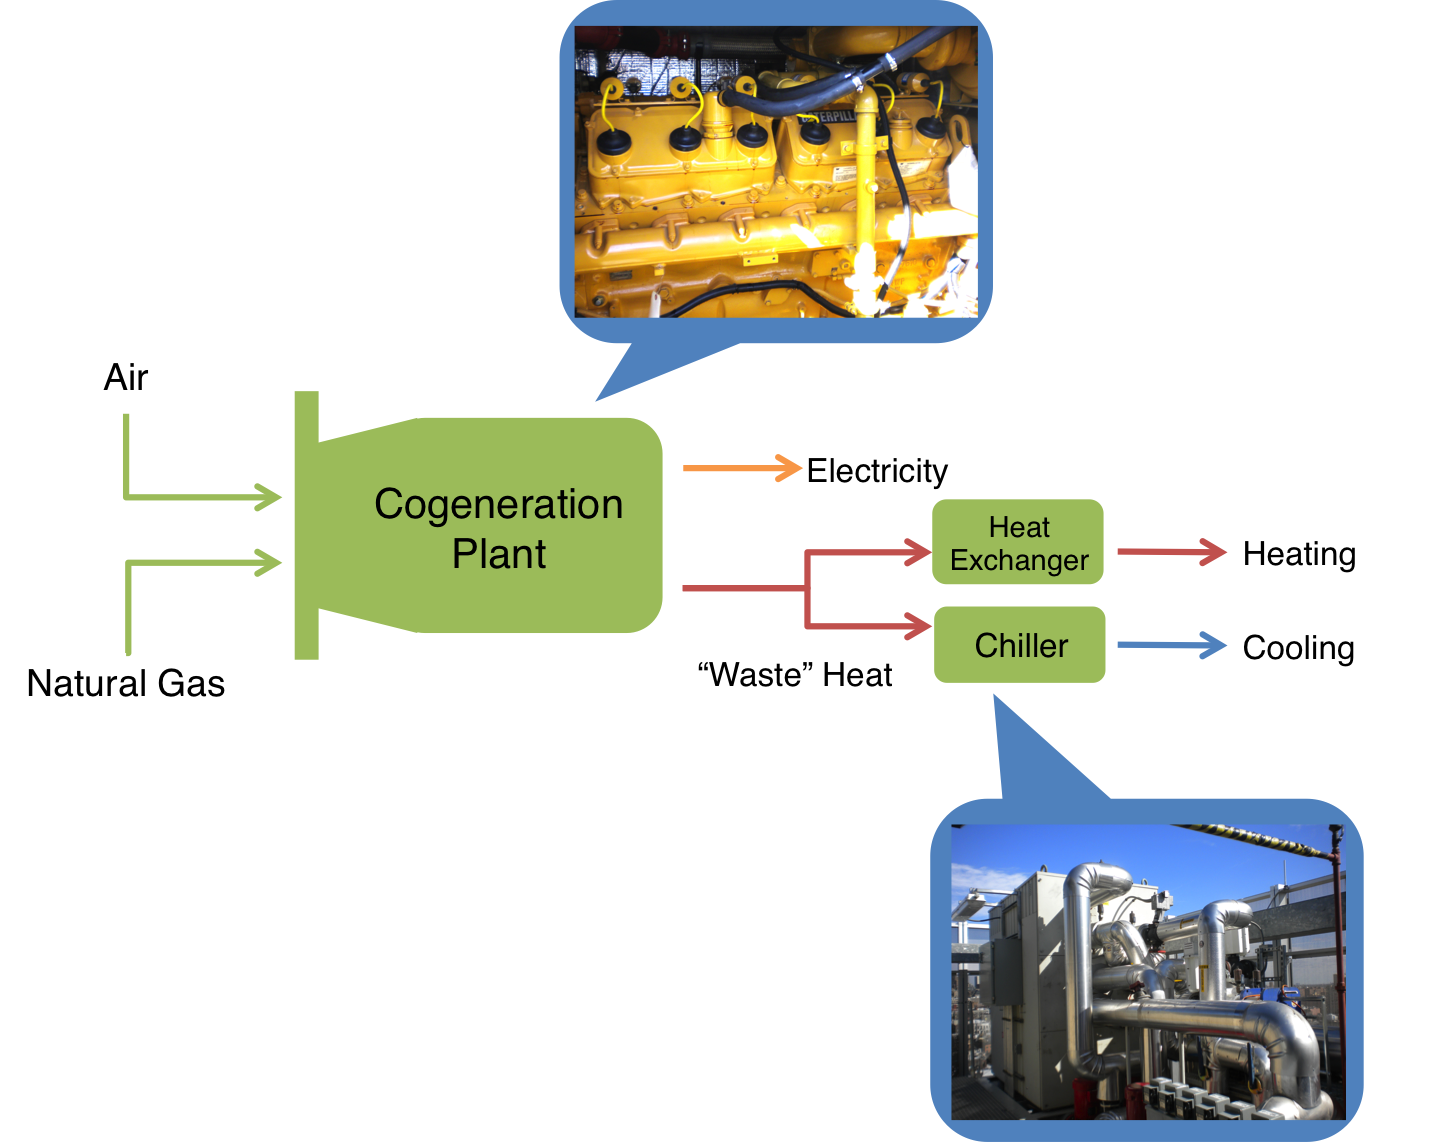
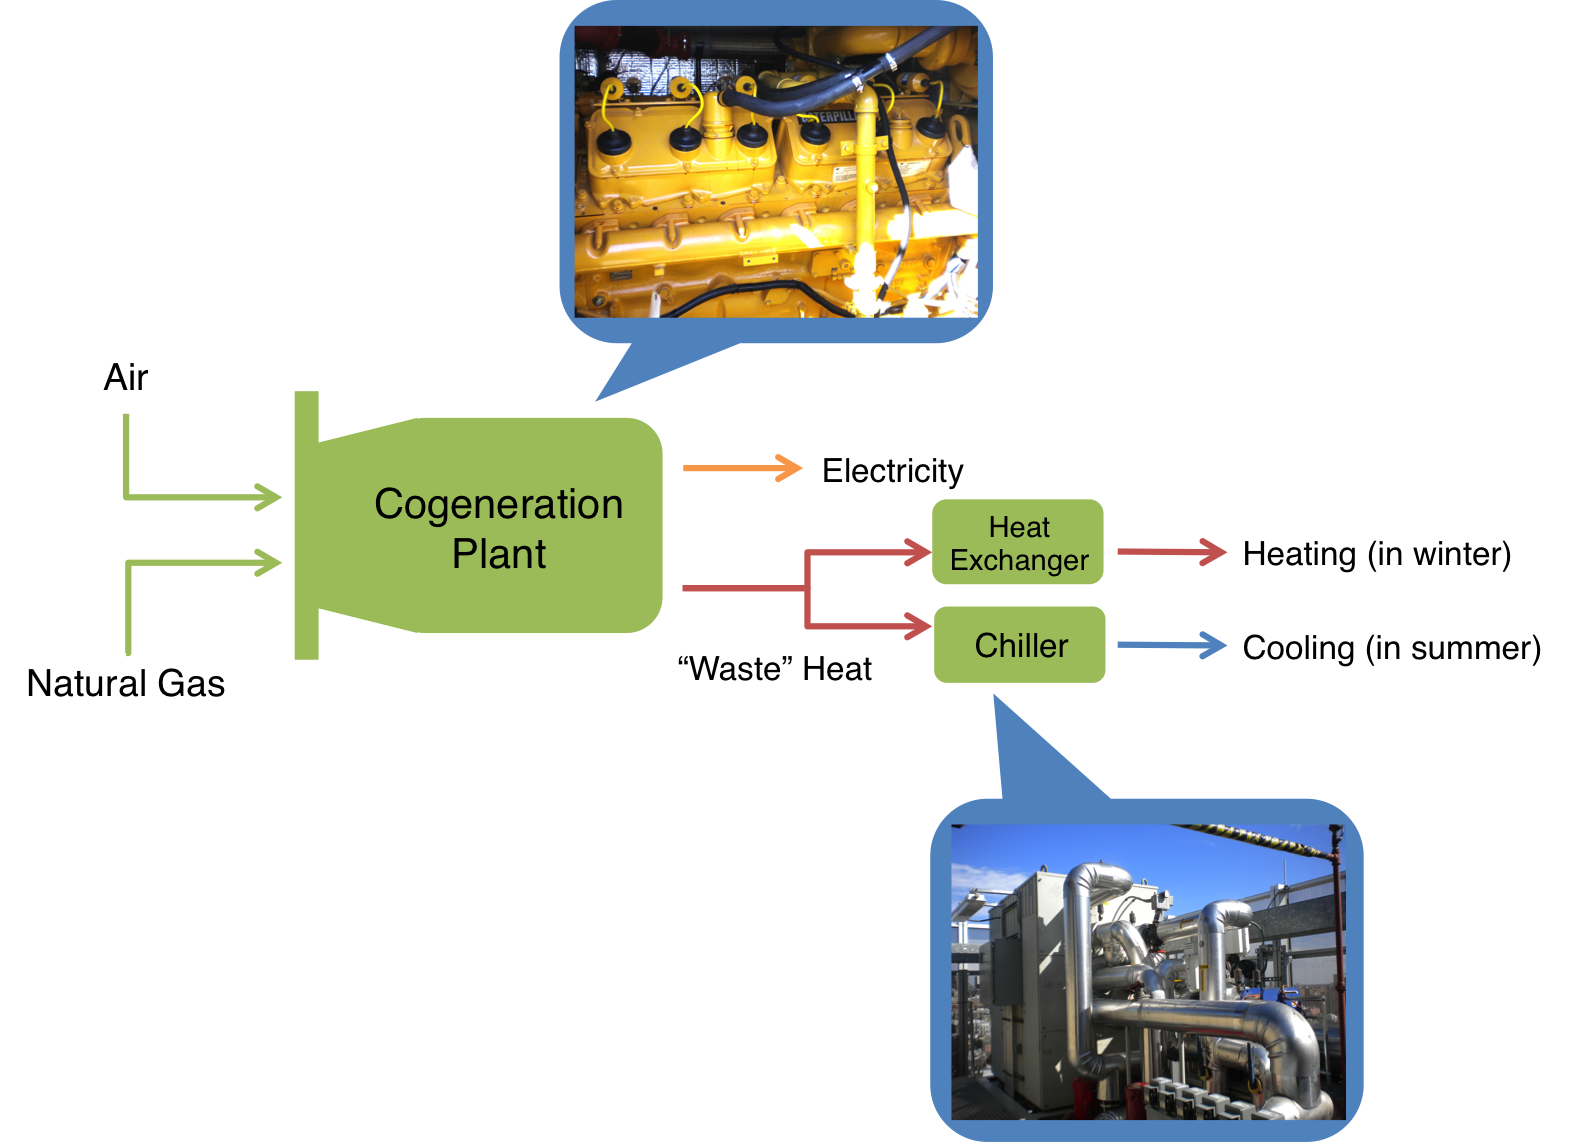
modifying titles and text

Changed region(s): [[0.1531, 0.0, 0.9798, 1.0], [0.0, 0.4904, 0.1531, 0.613], [0.0612, 0.3065, 0.0919, 0.4291]]

diff --git a/RainWaterHarvesting.html b/RainWaterHarvesting.html
@@ -4,7 +4,7 @@
     <head>
 	
 	<title>
-      Green Features
+      Green Features @41CooperSquare
     </title>
 	<link href="homepage_css.css" rel="stylesheet"></link>
 		<META HTTP-EQUIV="refresh" CONTENT="180;URL=http://at41coopersquare.github.io">
@@ -17,7 +17,7 @@
 		<header>
 			<hgroup>
 				<h1> <a href="index.html"><img class="cooperlogo" src="CooperUnionLogo.gif" /></a>
-				Rain Water Harvesting
+				Rainwater Harvesting
 				<img src="title.gif" class="title" /></h1>
 			</hgroup>
 			<nav>
@@ -38,19 +38,19 @@
 	<div id="innerpagetable">
 <table>
 		<td width="50%">
-			<h5>What is rain water harvesting?</h5>
+			<h5>What is rainwater harvesting?</h5>
 			<p>
-			The rain water harvesting system collects and uses storm water, saving 41CS an average of 100,000 gallons of water per year.
+			The rainwater harvesting system collects and uses storm water, saving 41CS an average of 100,000 gallons of water per year.
 			<br></p>
 			<h5>How does our system benefit NYC?</h5>
 			<p>
-			During heavy rains, the waste water system becomes overwhelmed and sewage water must be dumped directly into NYC rivers. By harvesting rain water, 41CS helps to reduce the amount of water entering the sewer system during storms.
+			During heavy rains, the waste water system becomes overwhelmed and sewage water must be dumped directly into NYC rivers. By harvesting rainwater, 41CS helps to reduce the amount of water entering the sewer system during storms.
 			<br></p>
 			<h5>How does it work?</h5>
 			<p>
 			Drains are located on the 7th and 8th floor roofs which direct rainwater to the 2500 gallon tank located on the 9th floor. While some of this water is used to irrigate the green roof, most of the water is filtered and stored in the 1500 gallon tank on the 2nd floor of 41CS. By feeding water to the toilets in bathrooms below the 2nd floor, 30% of water fixtures in the building are serviced by the water collected in the tank.
 			<br><br>
-			The rain water harvesting system also collects condensate from steam given off by the Air Handling Units (AHUs). AHUs control the temperature and humidity of the air supply. Instead of wasting the water created when moisture is removed from the air, the rain water harvesting system collects that water to increase the supply of water to the green roof and to lower level facilities.
+			The rainwater harvesting system also collects condensate from steam given off by the Air Handling Units (AHUs). AHUs control the temperature and humidity of the air supply. Instead of wasting the water created when moisture is removed from the air, the rain water harvesting system collects that water to increase the supply of water to the green roof and to lower level facilities.
 			</p>
 		</td>
 		<td>

diff --git a/GreenRoof.html b/GreenRoof.html
@@ -4,7 +4,7 @@
     <head>
 	
 	<title>
-      Green Features
+      Green Features @41CooperSquare
     </title>
 	<link href="homepage_css.css" rel="stylesheet"></link>
 		<META HTTP-EQUIV="refresh" CONTENT="180;URL=http://at41coopersquare.github.io">
@@ -42,8 +42,11 @@
 		<td width="50%">
 			<h5>Why do we have a green roof?</h5>
 			<p>Average temperatures of cities are naturally 4-5 degrees hotter than suburban and rural areas because pavement absorbs more heat than soil. This is known as the heat island effect. Adding gardens to the roofs of buildings decreases the heat island effect and decreases the temperature of the city. 41CS hosts a green roof above the 9th floor. 
-<br><br>
-Green roofs also reduce storm water runoff. Since soil absorbs rainwater during storms, less water enters the sewer system which decreases the flooding effect on the sidewalks and streets.<br></p>
+			<br></p>
+
+			<h5>How does the green roof help reduce pollution in NYC beaches?</h5>
+			<p>Green roofs reduce storm water runoff. That is, less water enters the sewer system because the soil in the green roof absorbs rainwater during storms. If there is an excess of water entering the sewer system, sewage must be dumped directly into rivers, causing pollution of NYC beachwater that may lead to swimming advisories and beach closings.
+			<br></p>
 			<h5>How is the green roof related to research at The Cooper Union?</h5>
 			<p>Currently, the Center for Innovation and Applied Technology (CIAT) led by Professor Dell of the Mechanical Engineering department is researching ways to improve the efficiency of the green roof on the Foundation Building. NYC law states that water used to heat buildings must be cooled to 65.6&deg;C before being dumped into the sewage system. Most building systems cool this old heated water by mixing it with cool drinking water, wasting usable filtered water. The CIAT proposes passing heated water through pipes located below the green roof gardens. This extends the growing period of plants by 20% and naturally cools the water in the pipes without wasting drinking water. It is expected that NYC will save $9.8 million in water and sewage costs using this method.
 			</p>

diff --git a/Cogeneration.html b/Cogeneration.html
@@ -4,7 +4,7 @@
     <head>
 	
 	<title>
-      Green Features
+      Green Features @41CooperSquare
     </title>
 	<link href="homepage_css.css" rel="stylesheet"></link>
 	<META HTTP-EQUIV="refresh" CONTENT="180;URL=http://at41coopersquare.github.io">
@@ -34,16 +34,26 @@
 	<!-- <FORM><INPUT Type="button" VALUE="Back" onClick="history.go(-1);return true;"></FORM> -->
 	<div id="backbutton" class="button" onClick="history.go(-1);return true">Back</div>
 	
+	<a href="CogenMore.html">
+		<div id="morebutton" class="button">Click here for more</div>
+	</a>
+
+
+
 <div id="innerpagetable">
 	<table>
 		<td width="50%">
 			<h5>What is cogeneration?</h5>
 			<p>
-			Typical heat engines produce electricity and dispose of waste heat. Cogeneration is a promising green technology because it uses this waste heat to either heat or cool the building through the raidant panels.
+			Cogeneration is a promising green technology that makes use of "waste" heat in two ways. A cogeneration plant uses waste heat to produce electricity onsite and also to heat or cool the building.
 			<br></p>
-			<h5>How does it work?</h5>
+			<h5>How does cogeneration compare to typical heat engines?</h5>
 			<p>
-			In winter, "waste" heat is passed through a heat exchanger for heating. During the summer, this heat is used to drive an absorption chiller.
+			Typical heat engines can produce electricity but simply reject waste heat to the atmosphere. By using cogeneration as opposed to typical heat engines, efficiency is increased from 40% to 80%.
+			<br></p>
+			<h5>How does cogeneration work?</h5>
+			<p>
+			The cogeneration plant runs on air and natural gas to produce electricity as well as "waste" heat. In winter, this waste heat from the cogeneration plant is passed through a heat exchanger for heating. During the summer, this heat is used to drive an absorption chiller. The heat exchanger and chiller then help to regulate the temperature of the building through the radiant panels. 
 			</p>
 		</td>
 		<td>

diff --git a/AirSideMore.html b/AirSideMore.html
@@ -17,7 +17,7 @@
 		<header>
 			<hgroup>
 				<h1> <a href="index.html"><img class="cooperlogo" src="CooperUnionLogo.gif" /></a>
-				Exterior Double Skin
+				Air Side Economizer
 				<img src="title.gif" class="title" /></h1>
 			</hgroup>
 			<nav>
@@ -34,25 +34,14 @@
 	<!-- <FORM><INPUT Type="button" VALUE="Back" onClick="history.go(-1);return true;"></FORM> -->
 	<div id="backbutton" class="button" onClick="history.go(-1);return true">Back</div>
 	
-<div id="innerpagetable">
-<table>
-		<td width="50%">
-			<h5>What is the exterior double skin?</h5>
-			<p>
-			The exterior double skin is the mesh screen surrounding all of 41CS. Constructed from 50% perforated steel skins, the purpose of the facade is to aid in temperature regulation in order to maximize efficiency of the heating and cooling system of the building.
-			<br></p>
-			<h5>How is it energy efficient?</h5>
-			<p>
-			The double skin reduces solar loads during the summer while reducing heat loss by 26% during the winter.
-			<br><br>
-			During the summer, the skin's high reflectivity factor reflects solar radiation from being absorbed into the skin. However, because the skin is 50% perforated, 50% of the solar radiation is passed thorugh the skin and is allowed to heat the windows and walls to heat the building in the winter.
-			</p>
-		</td>
-		<td>
-			<img src="exteriorskin.jpg" width="500px" />
-		</td>
-	</table>
-</div>
+
+	
+	<div id="innerpagetable">
+
+		<iframe src="http://engfac.cooper.edu/melody/417" style="margin-top:100px; width:90%; height:200%;"></iframe>
+
+	</div>
+
 
 	</body>
 	</html>

diff --git a/CogenMore.html b/CogenMore.html
@@ -17,7 +17,7 @@
 		<header>
 			<hgroup>
 				<h1> <a href="index.html"><img class="cooperlogo" src="CooperUnionLogo.gif" /></a>
-				Exterior Double Skin
+				Cogeneration
 				<img src="title.gif" class="title" /></h1>
 			</hgroup>
 			<nav>
@@ -34,25 +34,14 @@
 	<!-- <FORM><INPUT Type="button" VALUE="Back" onClick="history.go(-1);return true;"></FORM> -->
 	<div id="backbutton" class="button" onClick="history.go(-1);return true">Back</div>
 	
-<div id="innerpagetable">
-<table>
-		<td width="50%">
-			<h5>What is the exterior double skin?</h5>
-			<p>
-			The exterior double skin is the mesh screen surrounding all of 41CS. Constructed from 50% perforated steel skins, the purpose of the facade is to aid in temperature regulation in order to maximize efficiency of the heating and cooling system of the building.
-			<br></p>
-			<h5>How is it energy efficient?</h5>
-			<p>
-			The double skin reduces solar loads during the summer while reducing heat loss by 26% during the winter.
-			<br><br>
-			During the summer, the skin's high reflectivity factor reflects solar radiation from being absorbed into the skin. However, because the skin is 50% perforated, 50% of the solar radiation is passed thorugh the skin and is allowed to heat the windows and walls to heat the building in the winter.
-			</p>
-		</td>
-		<td>
-			<img src="exteriorskin.jpg" width="500px" />
-		</td>
-	</table>
-</div>
+
+	
+	<div id="innerpagetable">
+
+		<iframe src="http://engfac.cooper.edu/melody/451" style="margin-top:100px; width:90%; height:200%;"></iframe>
+
+	</div>
+
 
 	</body>
 	</html>

diff --git a/AirSideEconomizer.html b/AirSideEconomizer.html
@@ -4,7 +4,7 @@
     <head>
 	
 	<title>
-      Green Features
+      Green Features @41CooperSquare
     </title>
 	<link href="homepage_css.css" rel="stylesheet"></link>
 	<META HTTP-EQUIV="refresh" CONTENT="180;URL=http://at41coopersquare.github.io">
@@ -34,6 +34,12 @@
 	<!-- <FORM><INPUT Type="button" VALUE="Back" onClick="history.go(-1);return true;"></FORM> -->
 	<div id="backbutton" class="button" onClick="history.go(-1);return true">Back</div>
 	
+	<a href="AirSideMore.html">
+		<div id="morebutton" class="button">Click here for more</div>
+	</a>
+
+
+
 <div id="innerpagetable">
 <table>
 		<td width="50%">
@@ -53,7 +59,7 @@ All classrooms and offices are provided with 100% outside air (studies show fres
 			</p>
 		</td>
 		<td>
-			<img src="41cs_studio.jpg" width="450px" /><br>
+			<img src="41cs_studio.jpg" width="450px" /><br><br>
 			<img src="41cs_classroom.jpg" width="450px" />
 			</div>
 		</td>

diff --git a/RealTimeData.html b/RealTimeData.html
@@ -3,7 +3,7 @@
     <head>
 	
 	<title>
-      Real Time Data
+      Real Time Data @41CooperSquare
 	</title>
 	
 	<link href="homepage_css.css" rel="stylesheet"></link>
@@ -32,7 +32,7 @@
 	</div>
 	
 
-<iframe src="hhttp://energydash.cooper.edu/" style="margin-top:100px; width:90%; height:200%;"></iframe>
+<iframe src="http://energydash.cooper.edu/" style="margin-top:100px; width:90%; height:105%;"></iframe>
 <br><p>Real-Time Data courtesy of Eric Leong ME'14.
 	
 	</body>

diff --git a/Daylighting.html b/Daylighting.html
@@ -47,7 +47,7 @@
 			</p>
 		</td>
 		<td>
-	<img src="Daylighting.jpg" height="400px"/><img src="Daylighting2.jpg" height="400px"/>
+	<img src="Daylighting.jpg" height="400px"/>&nbsp;&nbsp;&nbsp;&nbsp;&nbsp;<img src="Daylighting2.jpg" height="400px"/>
 		</td>
 	</table>
 </div>

diff --git a/RadiantPanels.html b/RadiantPanels.html
@@ -4,7 +4,7 @@
     <head>
 	
 	<title>
-      Green Features
+      Green Features @41CooperSquare
     </title>
 	<link href="homepage_css.css" rel="stylesheet"></link>
 	<META HTTP-EQUIV="refresh" CONTENT="180;URL=http://at41coopersquare.github.io">

diff --git a/RadiantPanelsMore.html b/RadiantPanelsMore.html
@@ -4,7 +4,7 @@
     <head>
 	
 	<title>
-      Green Features
+      Green Features @41CooperSquare
     </title>
 	<link href="homepage_css.css" rel="stylesheet"></link>
 	<META HTTP-EQUIV="refresh" CONTENT="180;URL=http://at41coopersquare.github.io">

diff --git a/WaterSide.html b/WaterSide.html
@@ -4,7 +4,7 @@
     <head>
 	
 	<title>
-      Green Features
+      Green Features @41CooperSquare
     </title>
 	<link href="homepage_css.css" rel="stylesheet"></link>
 	<META HTTP-EQUIV="refresh" CONTENT="180;URL=http://at41coopersquare.github.io">

diff --git a/WaterSideMore.html b/WaterSideMore.html
@@ -4,7 +4,7 @@
     <head>
 	
 	<title>
-      Green Features
+      Green Features @41CooperSquare
     </title>
 	<link href="homepage_css.css" rel="stylesheet"></link>
 	<META HTTP-EQUIV="refresh" CONTENT="180;URL=http://at41coopersquare.github.io">
